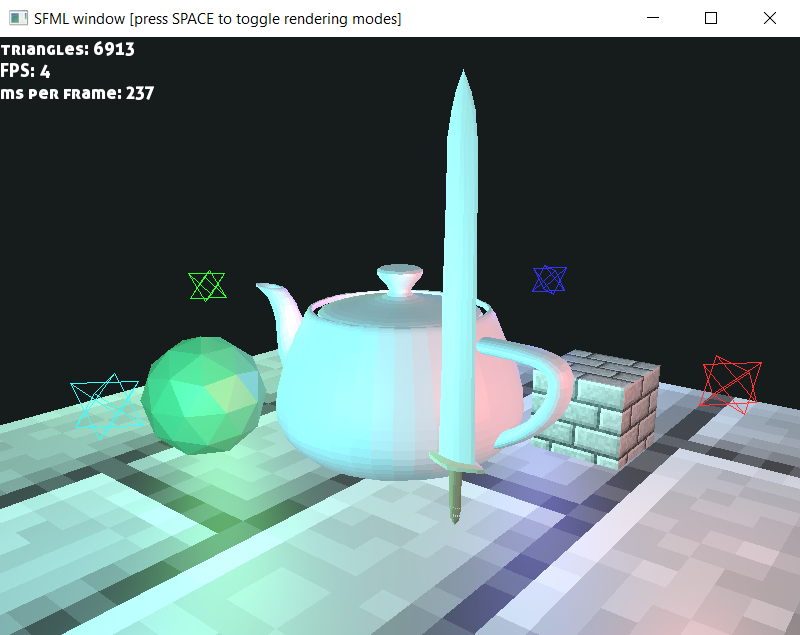
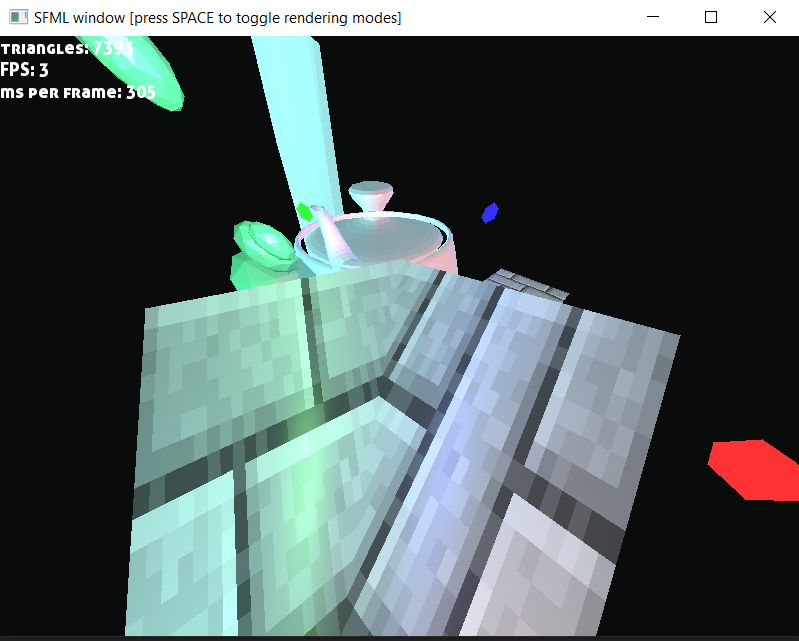
cool effect

diff --git a/3dRendererFromScratch/3dRendererFromScratch/Engine/Primitives.cpp b/3dRendererFromScratch/3dRendererFromScratch/Engine/Primitives.cpp
@@ -2,11 +2,9 @@
 
 namespace eng {
 
-void drawLine(glm::vec3 pos1, glm::vec3 pos2, ColorType color, const glm::mat4& transform, Screen& screen) {
-    glm::vec4 p1 = transform * glm::vec4(pos1, 1.0f);
-    glm::vec4 p2 = transform * glm::vec4(pos2, 1.0f);
-    p1 = glm::vec4(p1.x / p1.w, p1.y / p1.w, p1.z / p1.w, p1.w);
-    p2 = glm::vec4(p2.x / p2.w, p2.y / p2.w, p2.z / p2.w, p2.w);
+void drawLine(glm::vec4 pos1, glm::vec4 pos2, ColorType color, Screen& screen) {
+    glm::vec4 p1 = pos1;
+    glm::vec4 p2 = pos2;
 
     if ((p1.x < -1.0f && p2.x < -1.0f) || (p1.x > 1.0f && p2.x > 1.0f) || (p1.y < -1.0f && p2.y < -1.0f) ||
         (p1.y > 1.0f && p2.y > 1.0f))
@@ -59,11 +57,10 @@ InterpolatedVariables InterpolatedVariables::operator+(const InterpolatedVariabl
     return {z + oth.z, w + oth.w, t + oth.t};
 }
 
-void drawTriangleNormalVersion(const Triangle& t, const glm::mat4& transform, Shader& shader, Screen& screen,
-                               const LightsVec& lights) {
-    glm::vec4 p0 = transform * glm::vec4(t.p0, 1.0f);
-    glm::vec4 p1 = transform * glm::vec4(t.p1, 1.0f);
-    glm::vec4 p2 = transform * glm::vec4(t.p2, 1.0f);
+void drawTriangleNormalVersion(const Triangle& t, Shader& shader, Screen& screen, const LightsVec& lights) {
+    glm::vec4 p0 = t.p0;
+    glm::vec4 p1 = t.p1;
+    glm::vec4 p2 = t.p2;
     p0 = glm::vec4(p0.x / p0.w, p0.y / p0.w, p0.z / p0.w, p0.w);
     p1 = glm::vec4(p1.x / p1.w, p1.y / p1.w, p1.z / p1.w, p1.w);
     p2 = glm::vec4(p2.x / p2.w, p2.y / p2.w, p2.z / p2.w, p2.w);
@@ -128,19 +125,15 @@ void drawTriangleNormalVersion(const Triangle& t, const glm::mat4& transform, Sh
     }
 }
 
-void drawTriangle(const Triangle& t, const glm::mat4& transform, Shader& shader, Screen& screen, const LightsVec& lights) {
+void drawTriangle(const Triangle& t, Shader& shader, Screen& screen, const LightsVec& lights) {
     // drawTriangleOvercomplicatedVersion(t, transform, shader, screen, lights);
-    drawTriangleNormalVersion(t, transform, shader, screen, lights);
+    drawTriangleNormalVersion(t, shader, screen, lights);
 }
 
-void drawTriangleOvercomplicatedVersion(const Triangle& t, const glm::mat4& transform, Shader& shader, Screen& screen,
-                                        const LightsVec& lights) {
-    glm::vec4 p0 = transform * glm::vec4(t.p0, 1.0f);
-    glm::vec4 p1 = transform * glm::vec4(t.p1, 1.0f);
-    glm::vec4 p2 = transform * glm::vec4(t.p2, 1.0f);
-    p0 = glm::vec4(p0.x / p0.w, p0.y / p0.w, p0.z / p0.w, p0.w);
-    p1 = glm::vec4(p1.x / p1.w, p1.y / p1.w, p1.z / p1.w, p1.w);
-    p2 = glm::vec4(p2.x / p2.w, p2.y / p2.w, p2.z / p2.w, p2.w);
+void drawTriangleOvercomplicatedVersion(const Triangle& t, Shader& shader, Screen& screen, const LightsVec& lights) {
+    glm::vec4 p0 = t.p0;
+    glm::vec4 p1 = t.p1;
+    glm::vec4 p2 = t.p2;
 
     if ((p0.x < -1.0f && p1.x < -1.0f && p2.x < -1.0f) || (p0.x > 1.0f && p1.x > 1.0f && p2.x > 1.0f) ||
         (p0.y < -1.0f && p1.y < -1.0f && p2.y < -1.0f) || (p0.y > 1.0f && p1.y > 1.0f && p2.y > 1.0f))

diff --git a/3dRendererFromScratch/3dRendererFromScratch/Engine/Object.cpp b/3dRendererFromScratch/3dRendererFromScratch/Engine/Object.cpp
@@ -75,9 +75,12 @@ void Mesh::draw(RenderMode r, const Camera& camera, Screen& screen, const Lights
         glm::vec3 p2 = glm::vec3(p2_);
 
         Triangle tr;
-        tr.p0 = p0;
-        tr.p1 = p1;
-        tr.p2 = p2;
+        p0_ = transform * p0_;
+        p1_ = transform * p1_;
+        p2_ = transform * p2_;
+        tr.p0 = glm::vec4(p0_.x / p0_.w, p0_.y / p0_.w, p0_.z / p0_.w, p0_.w);
+        tr.p1 = glm::vec4(p1_.x / p1_.w, p1_.y / p1_.w, p1_.z / p1_.w, p1_.w);
+        tr.p2 = glm::vec4(p2_.x / p2_.w, p2_.y / p2_.w, p2_.z / p2_.w, p2_.w);
 
         if (r == RenderMode::Texture || r == RenderMode::UV) {
             tr.v0 = ShaderVariablesVec({mesh.textureCoords[face.ti]});
@@ -85,18 +88,18 @@ void Mesh::draw(RenderMode r, const Camera& camera, Screen& screen, const Lights
             tr.v2 = ShaderVariablesVec({mesh.textureCoords[face.tk]});
             if (r == RenderMode::Texture) {
                 td.setConst({texture});
-                drawTriangle(tr, transform, td, screen, lights);
+                drawTriangle(tr, td, screen, lights);
             } else {
-                drawTriangle(tr, transform, uv, screen, lights);
+                drawTriangle(tr, uv, screen, lights);
             }
         } else if (r == RenderMode::FlatColor) {
             fl.setConst({color});
 
-            drawTriangle(tr, transform, fl, screen, lights);
+            drawTriangle(tr, fl, screen, lights);
         } else if (r == RenderMode::Wireframe) {
-            drawLine(p0, p1, color, transform, screen);
-            drawLine(p1, p2, color, transform, screen);
-            drawLine(p2, p0, color, transform, screen);
+            drawLine(tr.p0, tr.p1, color, screen);
+            drawLine(tr.p1, tr.p2, color, screen);
+            drawLine(tr.p2, tr.p0, color, screen);
         } else {
             glm::vec3 normal = -glm::normalize(glm::cross(p1 - p0, p2 - p0));
             if (r == RenderMode::Phong) {
@@ -106,11 +109,11 @@ void Mesh::draw(RenderMode r, const Camera& camera, Screen& screen, const Lights
 
                 ph.setConst({texture, camera.getPosition(), normal});
 
-                drawTriangle(tr, transform, ph, screen, lights);
+                drawTriangle(tr, ph, screen, lights);
             } else {
                 nrm.setConst({normal});
 
-                drawTriangle(tr, transform, nrm, screen, lights);
+                drawTriangle(tr, nrm, screen, lights);
             }
         }
     }

diff --git a/3dRendererFromScratch/3dRendererFromScratch/Engine/Primitives.h b/3dRendererFromScratch/3dRendererFromScratch/Engine/Primitives.h
@@ -11,10 +11,10 @@
 
 namespace eng {
 
-void drawLine(glm::vec3 pos1, glm::vec3 pos2, ColorType color, const glm::mat4& transform, Screen& screen);
+void drawLine(glm::vec4 pos1, glm::vec4 pos2, ColorType color, Screen& screen);
 
 struct Triangle {
-    glm::vec3 p0, p1, p2;
+    glm::vec4 p0, p1, p2;
     ShaderVariablesVec v0, v1, v2;
 };
 
@@ -28,13 +28,11 @@ struct InterpolatedVariables {
     InterpolatedVariables operator+(const InterpolatedVariables& oth) const;
 };
 
-void drawTriangleNormalVersion(const Triangle& t, const glm::mat4& transform, Shader& shader, Screen& screen,
-                               const LightsVec& lights);
+void drawTriangleNormalVersion(const Triangle& t, Shader& shader, Screen& screen, const LightsVec& lights);
 
-void drawTriangle(const Triangle& t, const glm::mat4& transform, Shader& shader, Screen& screen, const LightsVec& lights);
+void drawTriangle(const Triangle& t, Shader& shader, Screen& screen, const LightsVec& lights);
 
 // approximately 20% faster than the normal version for the flat color shader, about 20% slower for the phong shader
-void drawTriangleOvercomplicatedVersion(const Triangle& t, const glm::mat4& transform, Shader& shader, Screen& screen,
-                                        const LightsVec& lights);
+void drawTriangleOvercomplicatedVersion(const Triangle& t, Shader& shader, Screen& screen, const LightsVec& lights);
 
 }  // namespace eng
